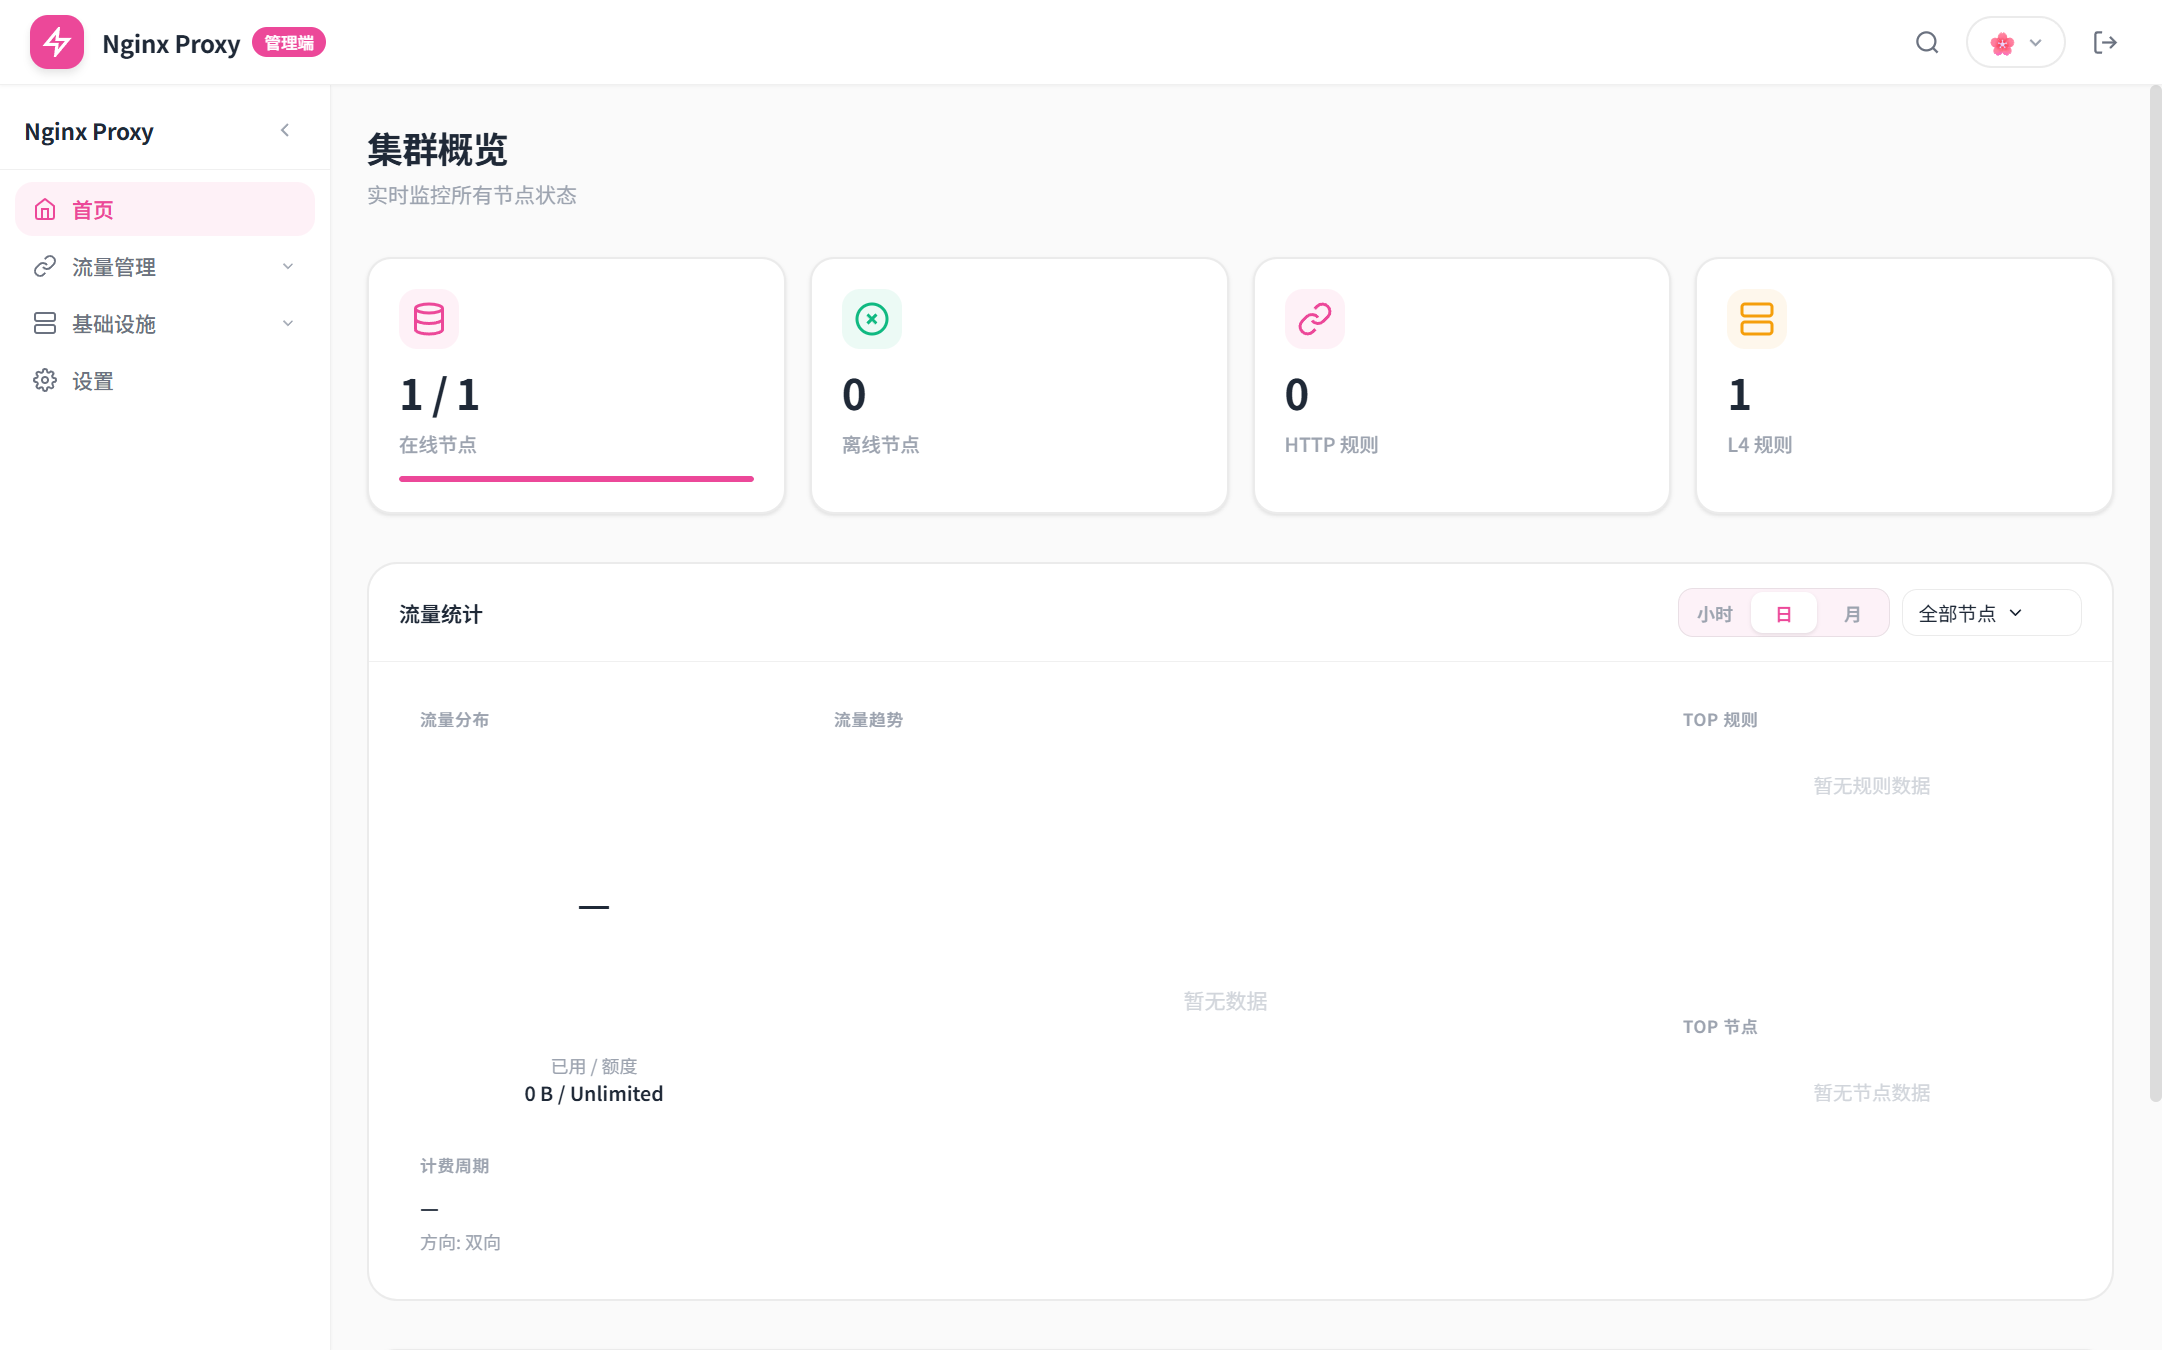
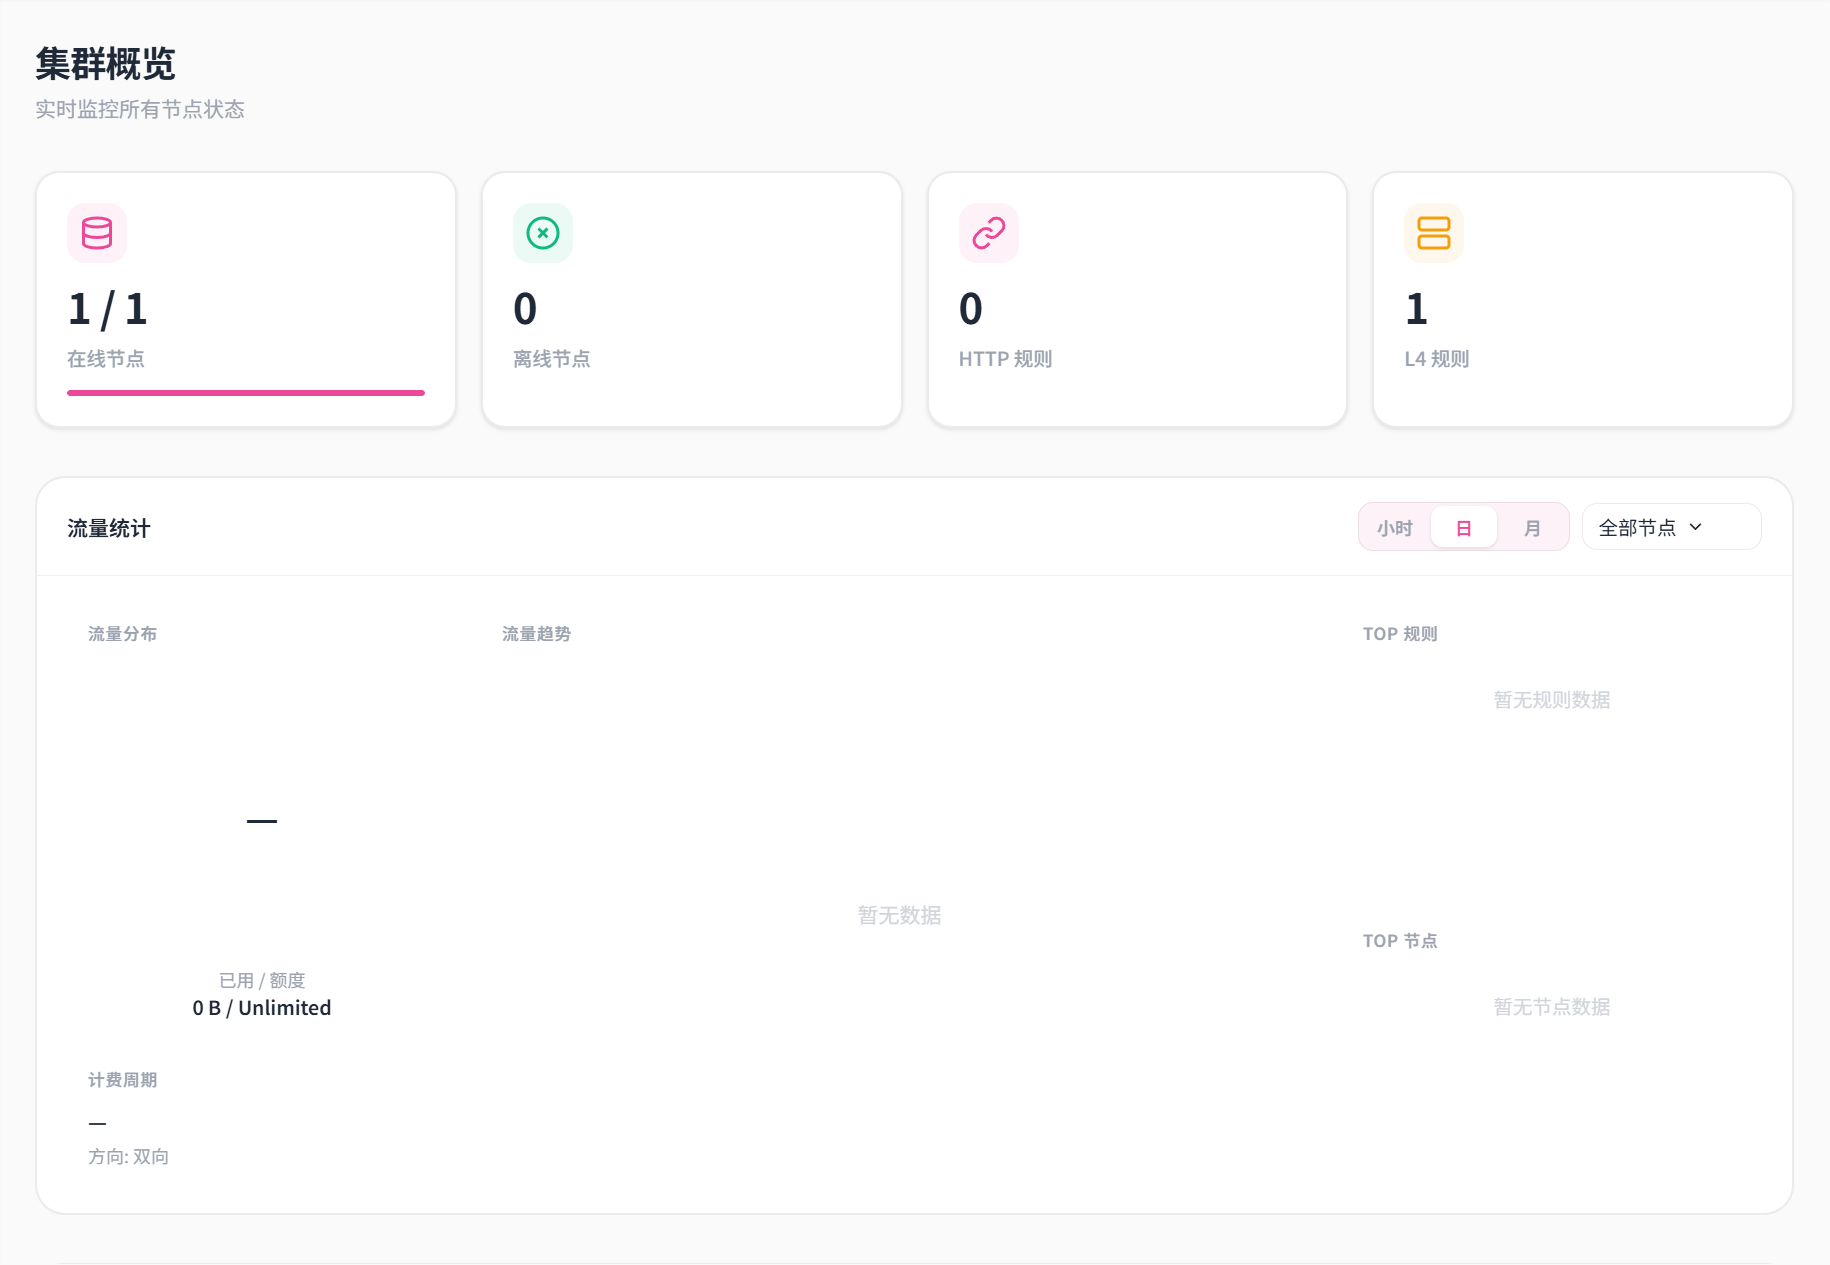
docs: add panel screenshots and update references

diff --git a/docs-site/guide/certificates.md b/docs-site/guide/certificates.md
@@ -26,6 +26,14 @@
 
 对于普通 HTTPS 前端，使用默认的自动签发即可。
 
+证书管理页面如下：
+
+![证书管理列表](/screenshots/panel-certificates.png)
+
+点击 **新建证书** 后，表单如下：
+
+![创建证书表单](/screenshots/panel-certificate-form.png)
+
 ## HTTP-01 验证（推荐入门）
 
 HTTP-01 适合普通单域名证书，例如：

diff --git a/docs-site/guide/wireguard.md b/docs-site/guide/wireguard.md
@@ -25,6 +25,8 @@ NRE_WIREGUARD_ENABLED=false
 | DNS | `1.1.1.1` | 接口使用的 DNS。 |
 | Public Endpoint | `vpn.example.com:51820` | 用于生成客户端配置的 Endpoint。 |
 
+![WireGuard Profile 创建表单](/screenshots/panel-wireguard-form.png)
+
 `Addresses` 表示 Agent 主机上 WireGuard UDP socket 的实际监听地址（例如 `192.168.0.109`）；`WG 分配地址` 表示 WireGuard 接口地址或地址池，例如：
 
 ```text

diff --git a/docs-site/operations/backup-restore.md b/docs-site/operations/backup-restore.md
@@ -6,6 +6,8 @@
 
 在 **设置 → 数据管理** 中操作。
 
+![数据管理](/screenshots/panel-backup-export.png)
+
 ### 导出
 
 勾选要导出的资源（支持全选）：

diff --git a/docs-site/reference/traffic.md b/docs-site/reference/traffic.md
@@ -50,6 +50,8 @@ NRE_TRAFFIC_INTERFACES=eth0,eth1
 - **流量趋势**（可按小时 / 日 / 月切换，可选具体节点或全部）。
 - **Top 规则** 与 **Top 节点** 排行。
 
+![仪表盘流量模块](/screenshots/panel-dashboard.png)
+
 ## 手工校准
 
 当物理计数与实际不符（例如更换网卡、重置系统、迁移数据），可在节点上执行校准：设置基线偏移，或清零当前周期数据。校准基线保存在 `traffic_baselines` 中，后续统计以校准后的值为口径。